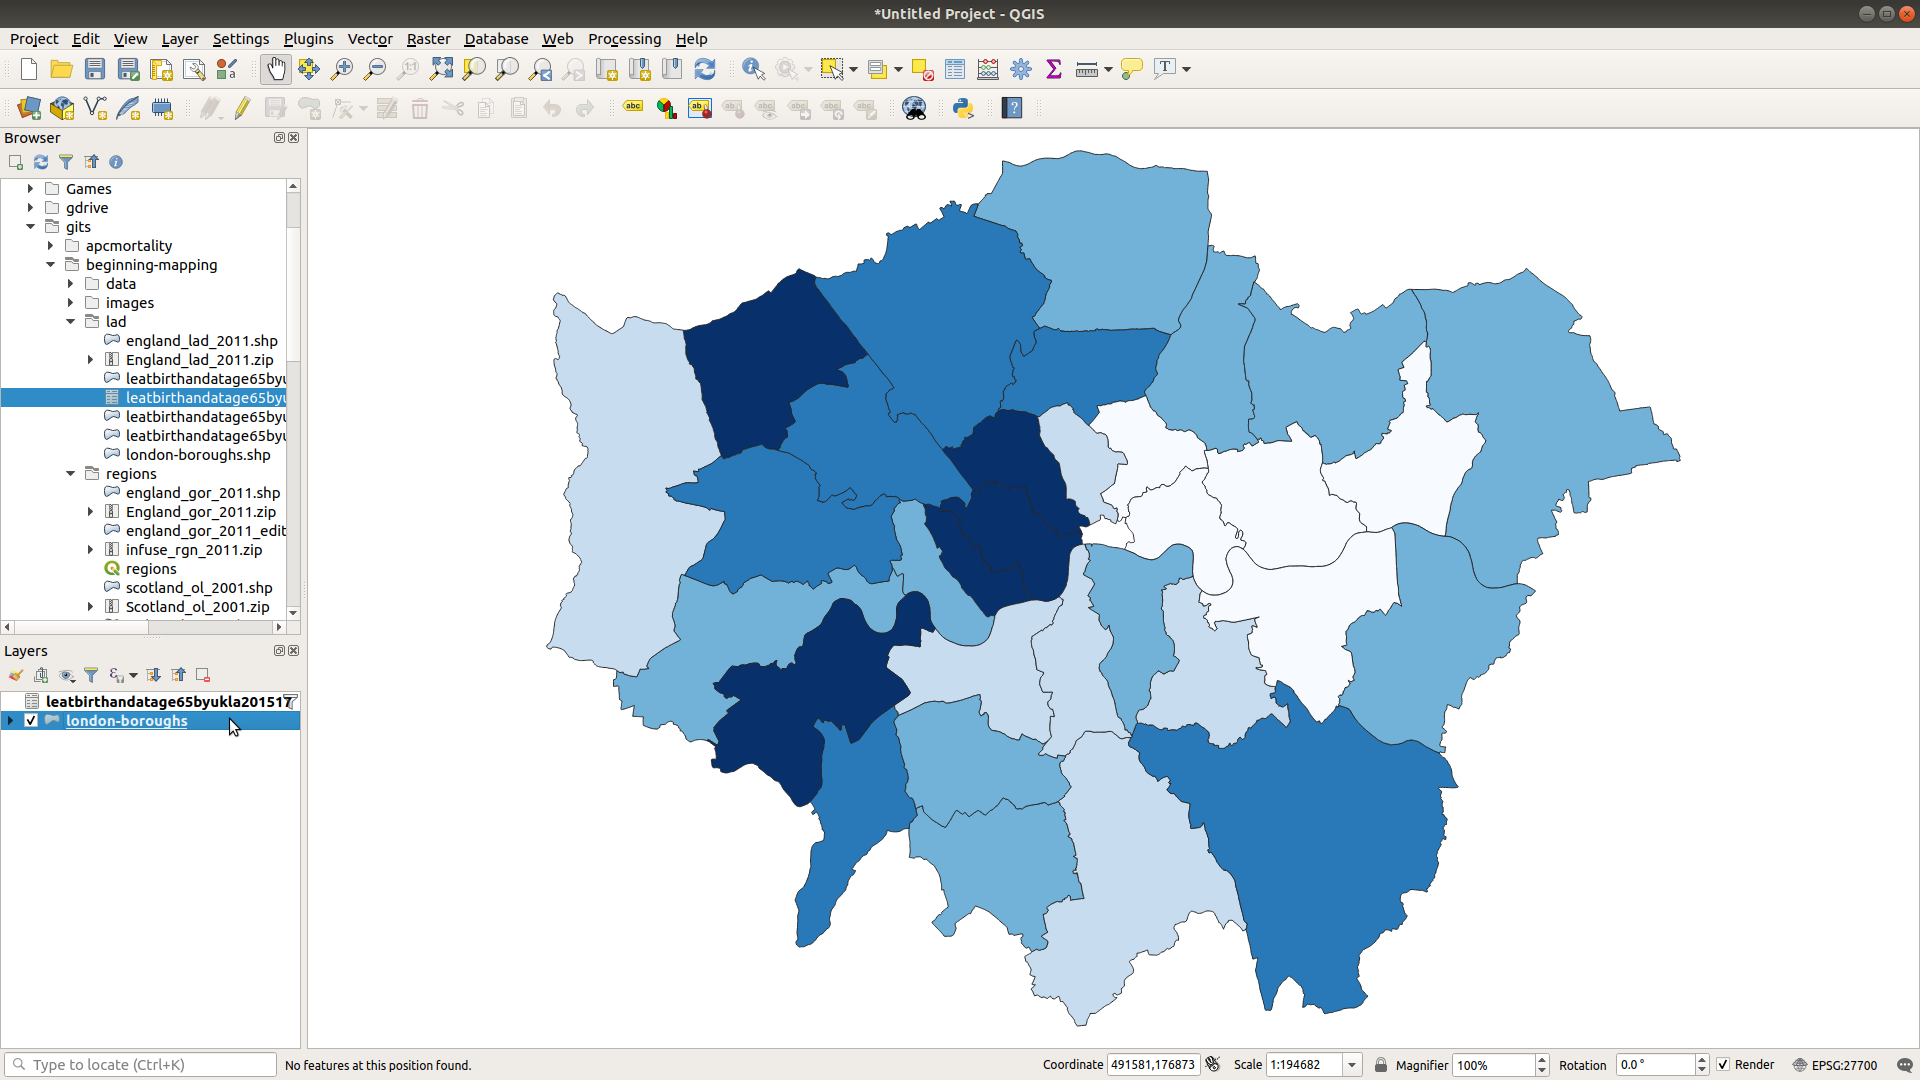
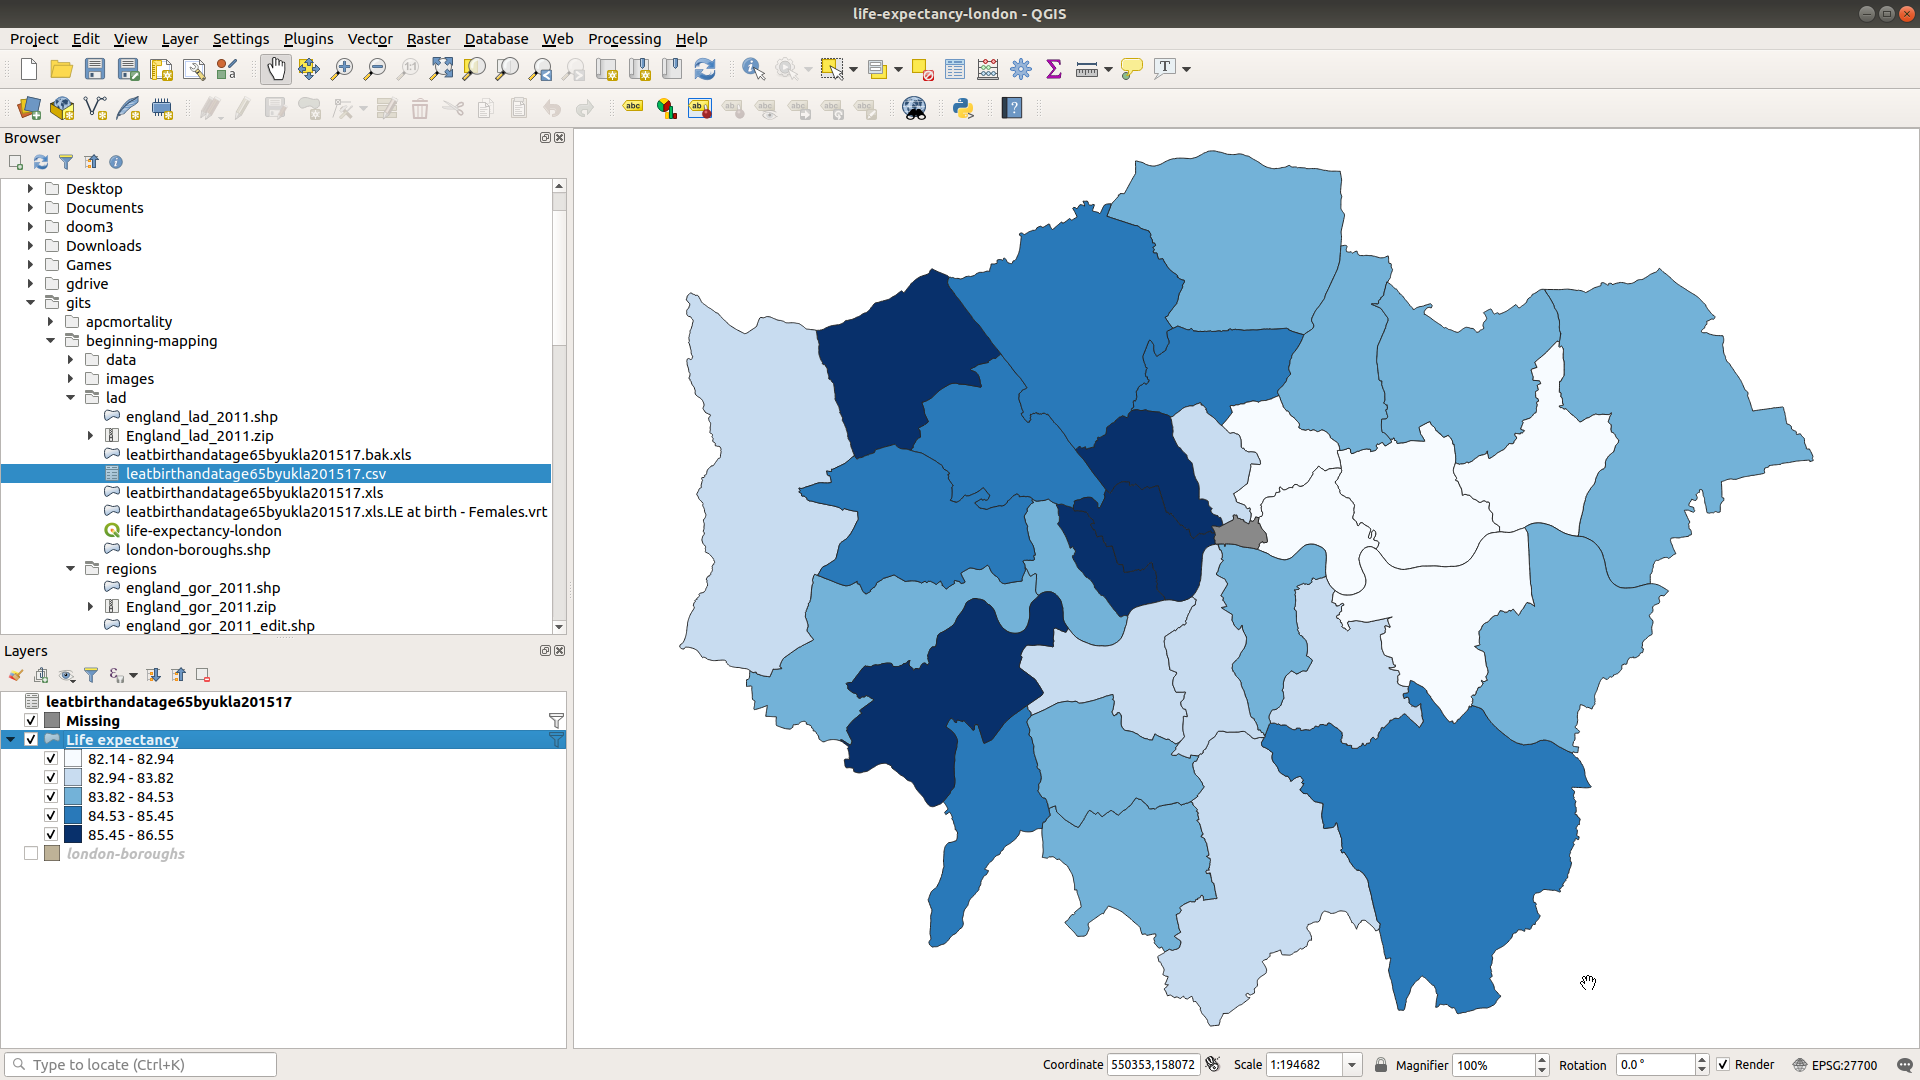
update thematic map to display missing correctly

diff --git a/handout.md b/handout.md
@@ -694,42 +694,26 @@ Now open `Layer` > `Add Layer` > `Add spreadsheet layer` from the menu:
 
 You need to provide a file path and make sure you select the correct Sheet (LE at birth - Females).
 Ensure you tick `Header at first line` and `End of file detection`, and check the preview looks correct before pressing `OK`.
-
 Whichever method you've chosen you should now see a new layer in your Layers panel listing the table.
 
 Before we join this to our spatial data it is advisable to perform a last check on the data to ensure it has been imported correctly and deal with any edge cases.
-Click on the `leatbirthandatage65byukla201517.csv` layer and open the attribute table (`F6`) or `Layer` > `Open Attribute Table` menu item.
+Click on the `leatbirthandatage65byukla201517.csv` layer and open the attribute table (`F6`, or `Layer` > `Open Attribute Table` menu item).
 You should see something like the following:
 
 ![Life expectancy layer attribute table](images/attribute-table.png)
 
 Notice that row 12 (City of London) has *`NULL`* for each year.
-This is genuinely missing data from the original spreadsheet and is not an import error, but we do have to correct this or it will affect our plot.
-To correct this we are going to remove it.
-
-The area code for City of London is `E09000001` (you can copy it from the attribute table if you like by right--clicking on the cell and pressing `Copy Cell Content`).
-Close the attribute table, select the layer in the `Layers` panel, right--click and press `Filter`.
-As before we are going to filter only the cases we want (using the filter we do not need to alter the original file in any way).
-This time, however, we are going to retain cases that *do not* match our criterion (i.e. we exclude City of London, which is much more efficient than including all other boroughs individually).
-Enter the following expression, either by clicking or typing directly as before (noting the double quotes around the label and the single quotes around the value):
-
-```
-"Area Codes" != 'E09000001'
-```
-
-![Filter City of London](images/filter-city-of-london.png)
-
-When you `Test` this 32 rows should remain.
-Press `OK` (and optionally verify the attribute table again).
+This is genuinely missing data from the original spreadsheet and is not an import error, so we will fix this later.
+First we will join the thematic data to the spatial data.
 
 
 ### Join to spatial data
 
 So that QGIS (or indeed any GIS software) knows which row in this table corresponds to each zone we must join the data.
 We typically join with a zone or geometry code which is unique and unambiguous, just like we would use an id to join records across database tables.
-This is what we will do for this example.
 Sometimes, though, your data may only contain names which do not always match precisely (regions are the worst offenders for this; is it 'Yorkshire and The Humber' or 'Yorkshire and the Humber'? It's the former, but I've seen both.)
 To do any join it is your job to ensure the zone identifier in your geometry file match the zone identifier in your thematic data.
+For this example we will use a unique area code.
 
 Begin by highlighting (single--click) on the spatial layer.
 Right--click the layer and press `Properties` and select the `Joins` tab.
@@ -738,16 +722,56 @@ Press `Add` (the green `+`) then:
 1. Select the `Join layer` (this is the table layer)
 1. Select the `Join field` (this is the id column in the table layer)
 1. Select the `Target field` (this is the id column in the geometry layer)
-1. If you know you only need specific columns tick `Joined Fields` and click the arrow to display a list of columns and select only those you need. We only need `Area Codes` and `2015-2017` so tick these.
+1. If you know you only need specific columns tick `Joined Fields` and click the arrow to display a list of columns and select only those you need. We only need `2015-2017` so tick this.
 1. Leave all other options as their default
 1. Press `OK` then `Apply`.
 
 ![Join dialogue](images/vector-join-dialogue.png)
 
-Now we can style our thematic map.
-Go to the `Symbology` tab and change `Single symbol` to `Graduated`.
-Select the column to base the styles on (I've used the most recent `2015-2017` data) and choose a colour ramp (I try to avoid red and green; more on this later).
-Select `Natural Breaks (Jenks)` under `Mode` and, for now, leave all options as their default (we'll talk more about these choices later) and press `Classify` then `Apply`.
+Now we can style our thematic map, and it is at this stage that we deal with the missing data.
+There are a few ways to do this in QGIS, but the most straightforward way is to duplicate the layer and use one copy to display non--missing data, and to use the other copy to display the missing data only.
+
+Begin by right--clicking the spatial layer and select `Filter`.
+QGIS will prompt you to create a virtual layer.
+Select `Yes`.
+It is at this stage that QGIS creates a duplicate layer with the same name as the original layer with '`(virtual)`' appended.
+As before construct the following query by double--clicking fields and typing:
+
+```
+"leatbirthandatage65byukla201517_2015-2017" is null
+```
+
+When you test this one layer should be selected.
+Press `OK`.
+Just one zone should now be displayed.
+Rename this layer from `london-boroughs (virtual)` (or whatever you have called it) to '`Missing`'.
+Not only does this serve to remind us but this is the default label that will be applied to the legend later when we export our map.
+
+Now right--click on the original layer and `Filter` again, agree to creating a virtual layer, and QGIS will create another duplicate (you should have three versions of the layer at this point).
+In this filter expression enter:
+
+```
+"leatbirthandatage65byukla201517_2015-2017" not null
+```
+
+When you test this 32 rows should remain.
+Press `OK`.
+Rename this layer `Life expectancy` (again this will be the default label for the legend later).
+
+Now we can begin styling our map.
+First right--click on the missing layer and press `Properties` and select the `Symbology` tab.
+Leave this as `Single symbol`, but a grey is common for missing data so choose a grey fill and press `OK`.
+
+![Style missing as grey](images/missing-single-symbol-grey.png)
+
+Now style the `Life expectancy` layer, again by right--clicking, selecting `Properties`, and the `Symbology` tab.
+Select the following options:
+
+- Graduated
+- Column: `leatbirthandatage65byukla201517_2015-2017`
+- Colour ramp: `Blues`
+- Mode: `Natural Breaks (Jenks)`
+- Press `OK`.
 
 ![Styling our map](images/le-thematic-map-jenks.png)
 
